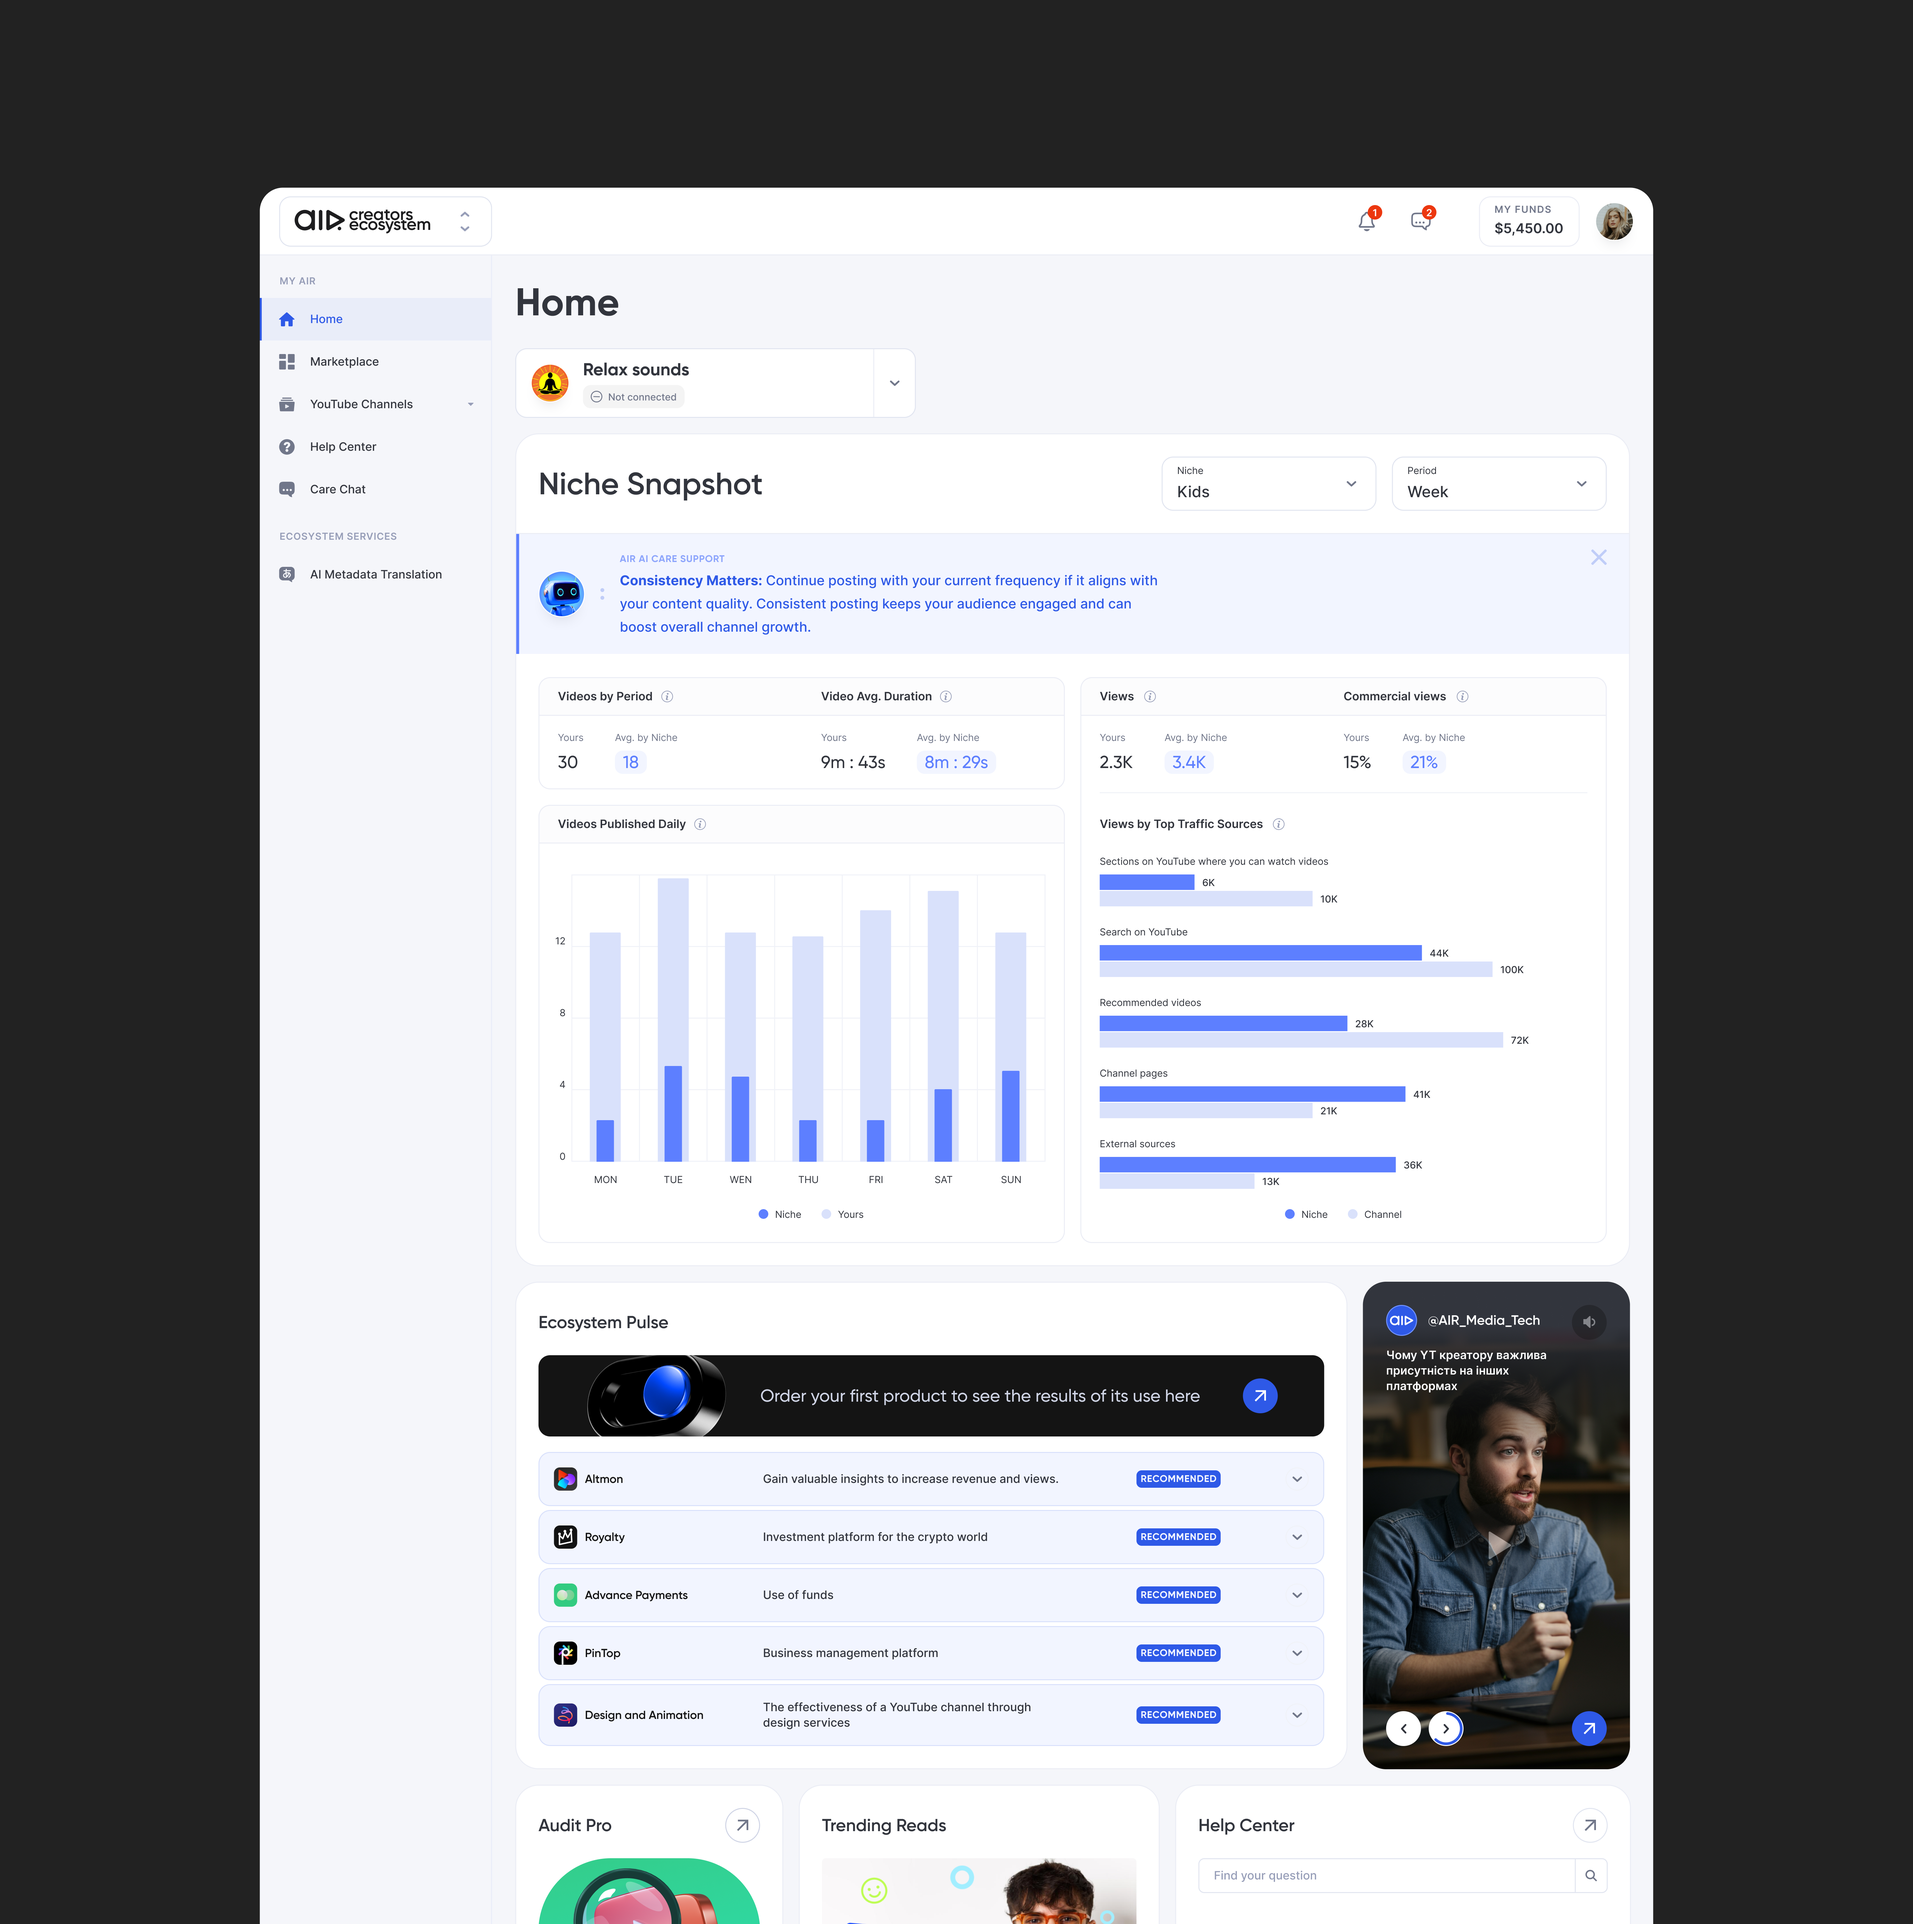
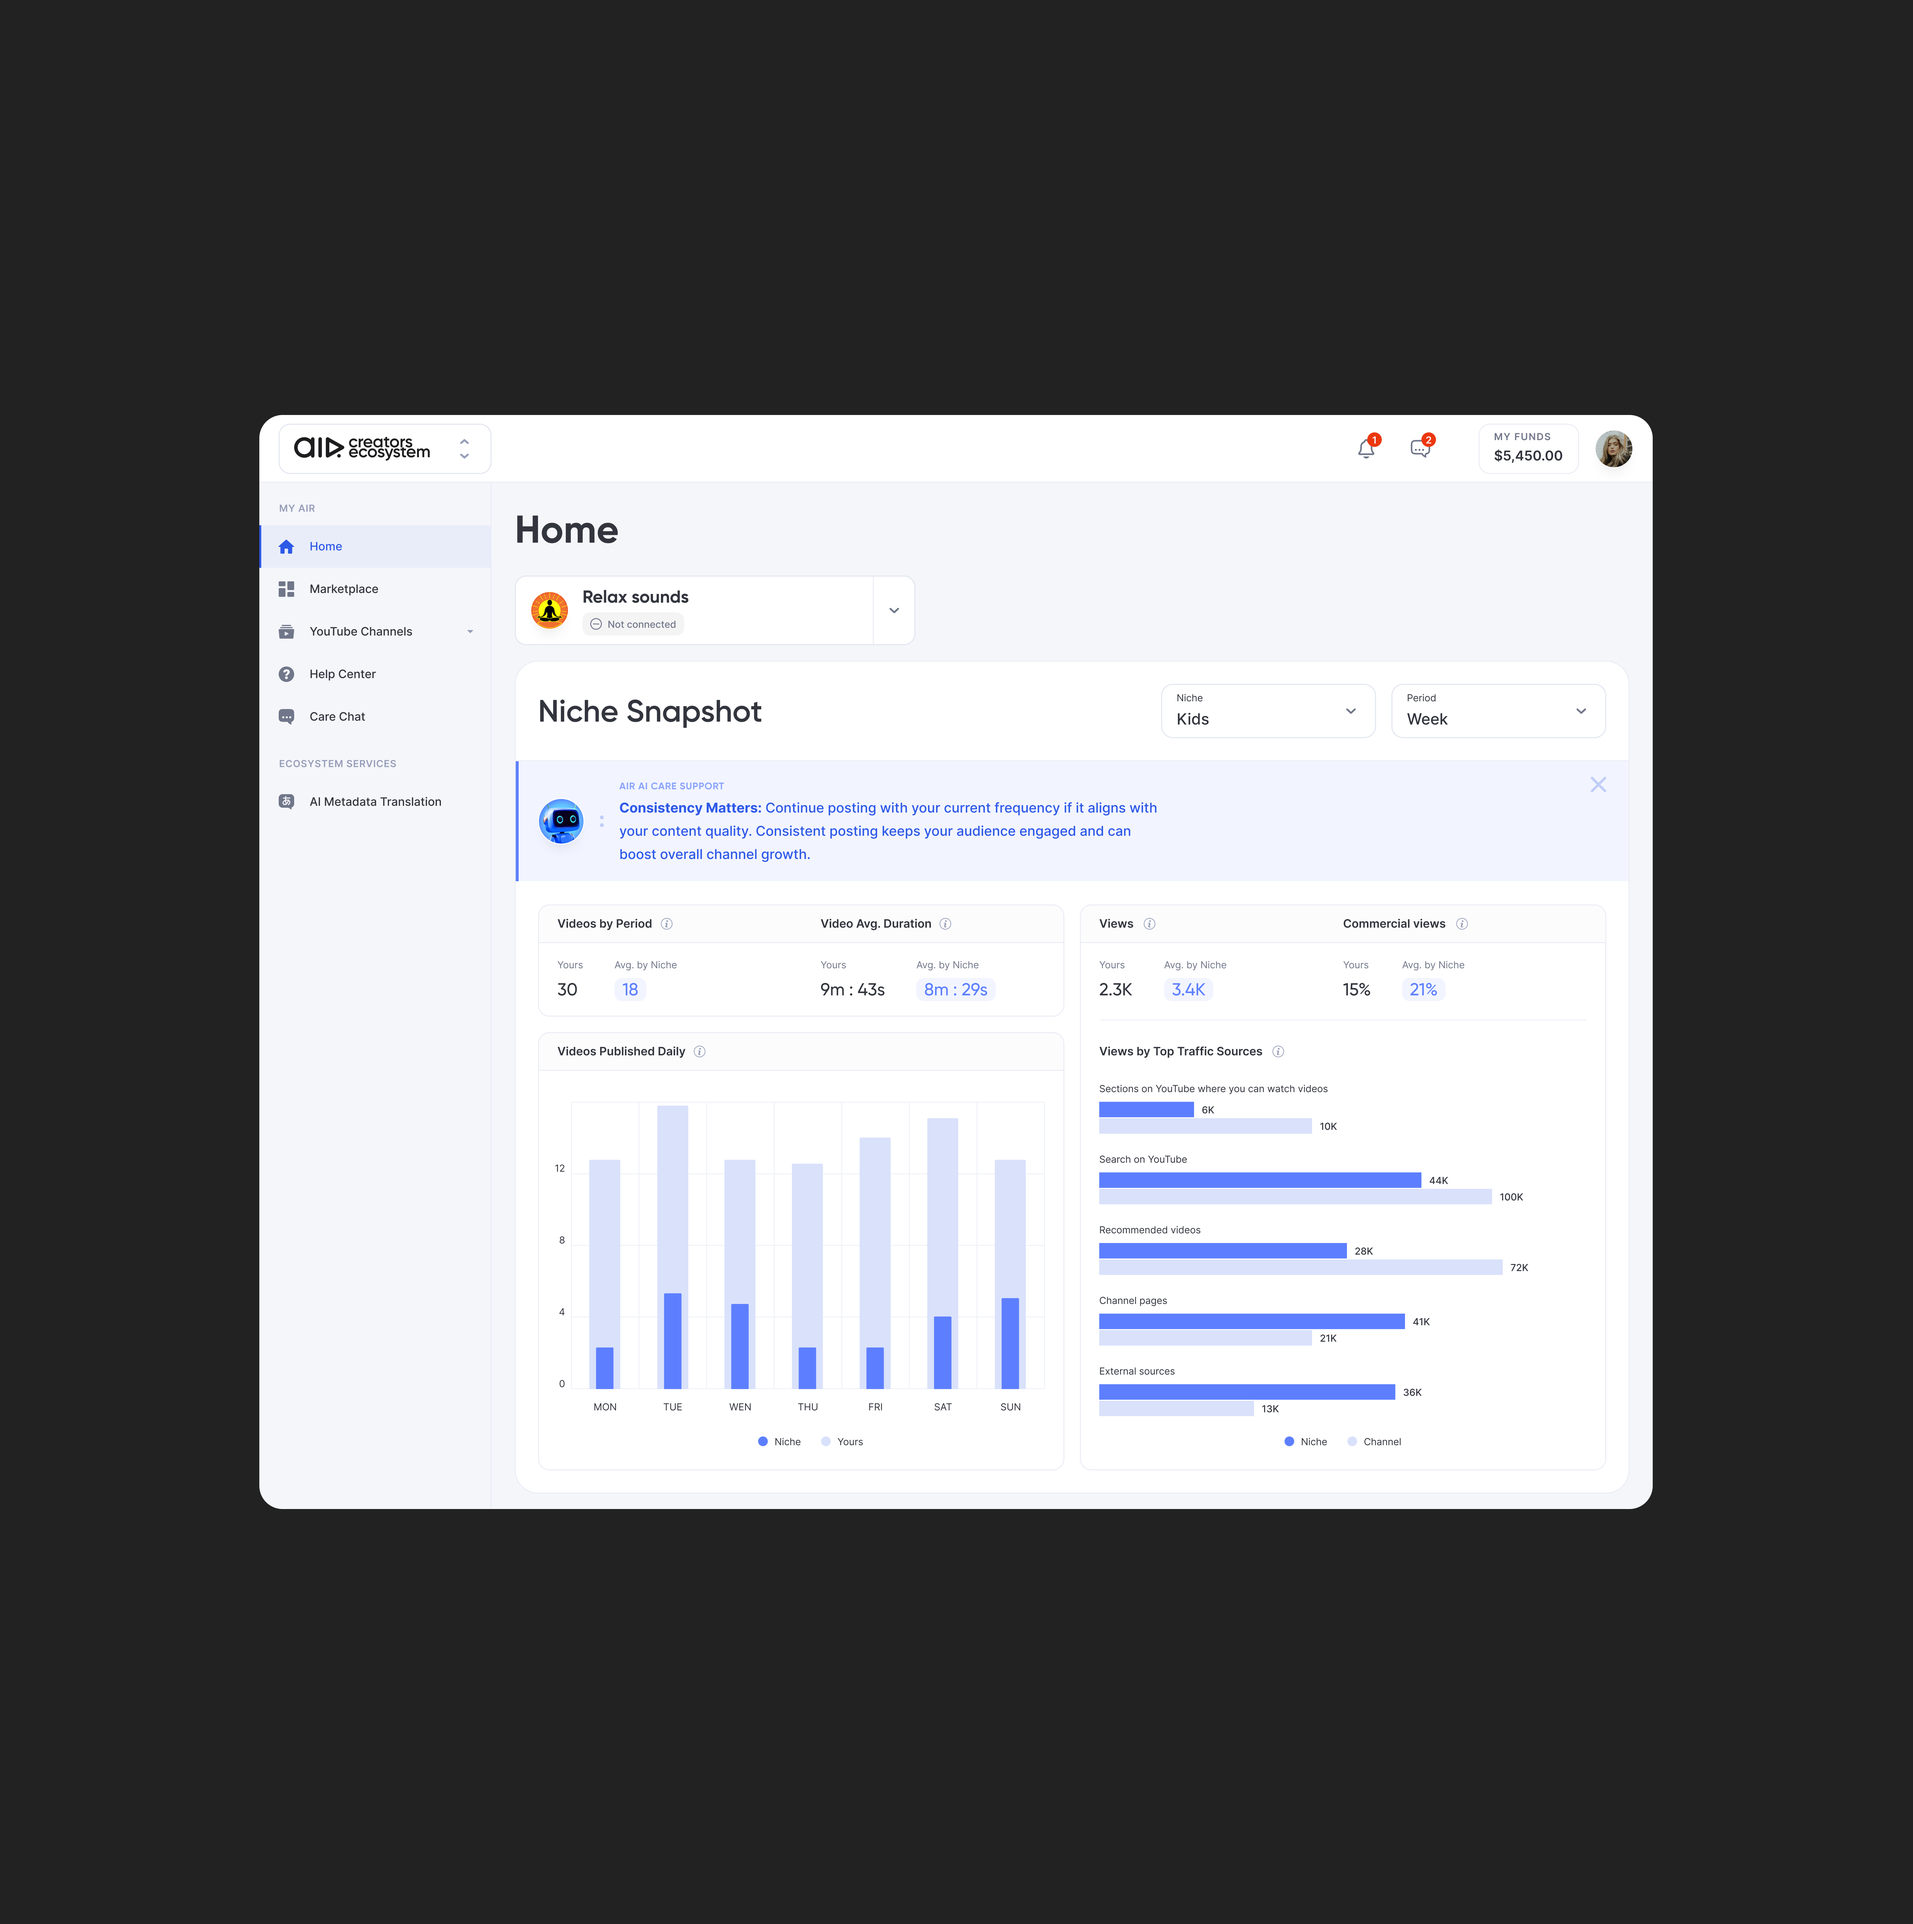
Add Creators Ecosystem & OXYS cards, update CV link, work section polish

diff --git a/src/components/Work.jsx b/src/components/Work.jsx
@@ -19,8 +19,11 @@ const projects = [
   {
     slug: 'creators-ecosystem',
     tags: ['Ecosystem', 'UX Architecture', 'Strategy'],
+    chips: ['UX Architecture', 'Customer Experience', 'Systems Design', 'Strategy'],
     title: 'Creators Ecosystem',
-    icon: '/logos/air-icon.png',
+    icon: '/logos/air-icon.svg',
+    subtitle: 'AIR MEDIA-TECH',
+    metric: 'Coming Soon',
     image: '/cases/creators-ecosystem.png',
     comingSoon: true,
     description:
@@ -36,7 +39,13 @@ const projects = [
   {
     slug: 'oxis-ai-toolkit',
     tags: ['AI Tooling', '0→1', 'Design System'],
-    title: 'Oxis AI Toolkit',
+    chips: ['Leadership', 'Managed Design Function', 'Full Cycle Design'],
+    title: 'OXYS AI Toolkit',
+    icon: '/logos/oxys-icon.svg',
+    subtitle: 'AIR MEDIA-TECH',
+    metric: 'Coming Soon',
+    image: '/cases/oxis-ai-toolkit.png',
+    comingSoon: true,
     description:
       'Designed an AI toolkit for YouTube creators from scratch — Comments Analyzer, Metadata Lab, and Idea Generator — across full OAuth, payment, and ecosystem flows.',
   },
@@ -75,7 +84,7 @@ function ImagePlaceholder({ image }) {
 function FeaturedCard({ project }) {
   return (
     <div>
-      <a href={`/work/${project.slug}`} className="flex items-center gap-4 mb-5 hover:opacity-80 transition-opacity">
+      <a href={project.comingSoon ? undefined : `/work/${project.slug}`} className={`flex items-center gap-4 mb-5 ${!project.comingSoon ? 'hover:opacity-80 transition-opacity' : 'cursor-default'}`}>
         <div className="w-14 h-14 rounded-2xl bg-[#161616] border border-[#2a2a2a] flex items-center justify-center shrink-0 overflow-hidden">
           {project.icon
             ? <img src={project.icon} alt={project.title} className="w-full h-full object-cover" />
@@ -97,8 +106,10 @@ function FeaturedCard({ project }) {
       {project.comingSoon ? (
         <div className="block bg-[#161616] border border-[#2a2a2a] rounded-3xl overflow-hidden relative">
           <ImagePlaceholder image={project.image} />
-          <div className="absolute top-4 left-4">
-            <span className="text-sm px-3 py-1.5 rounded-lg text-white font-medium backdrop-blur-md" style={{background: 'rgba(50,50,50,0.75)'}}>Coming Soon</span>
+          <div className="absolute top-4 left-4 flex flex-wrap gap-2">
+            {project.chips && project.chips.map(chip => (
+              <span key={chip} className="text-sm px-3 py-1.5 rounded-lg text-white font-medium backdrop-blur-md" style={{background: 'rgba(50,50,50,0.75)'}}>{chip}</span>
+            ))}
           </div>
         </div>
       ) : (
@@ -151,11 +162,11 @@ function Card({ project }) {
 }
 
 export default function Work() {
-  const visible = projects.filter(p => p.slug === 'competitive-insights')
+  const visible = projects.filter(p => p.slug === 'competitive-insights' || p.slug === 'creators-ecosystem' || p.slug === 'oxis-ai-toolkit')
 
   return (
     <section id="work" className="max-w-6xl mx-auto px-6 pt-12 pb-8">
-      <div className="flex flex-col gap-6">
+      <div className="flex flex-col gap-12">
         {visible.map((project) => (
           <FeaturedCard key={project.slug} project={project} />
         ))}

diff --git a/src/components/Footer.jsx b/src/components/Footer.jsx
@@ -4,7 +4,7 @@ export default function Footer() {
       <div className="max-w-6xl mx-auto px-6 py-6 flex flex-col sm:flex-row items-center justify-between gap-4 text-[#888888] text-sm">
 <span>© 2026 Masha Osadcha</span>
         <div className="flex gap-5">
-          <a href="https://drive.google.com/file/d/1WHZQf2-D0gfG2xbuB0_rOr0yZ_o_okiJ/view?usp=sharing" target="_blank" rel="noopener noreferrer" className="hover:text-white transition-colors">
+          <a href="https://drive.google.com/file/d/1dDAI3Iu0gBHoXuC_p20IMbznZ34QM5BX/view?usp=sharing" target="_blank" rel="noopener noreferrer" className="hover:text-white transition-colors">
             CV
           </a>
           <a

diff --git a/src/components/Nav.jsx b/src/components/Nav.jsx
@@ -19,7 +19,7 @@ export default function Nav({ scrolled }) {
               Work
             </a>
             <a
-              href="https://drive.google.com/file/d/1WHZQf2-D0gfG2xbuB0_rOr0yZ_o_okiJ/view?usp=sharing"
+              href="https://drive.google.com/file/d/1dDAI3Iu0gBHoXuC_p20IMbznZ34QM5BX/view?usp=sharing"
               target="_blank"
               rel="noopener noreferrer"
               className="text-[#888888] hover:text-white text-sm transition-colors"
